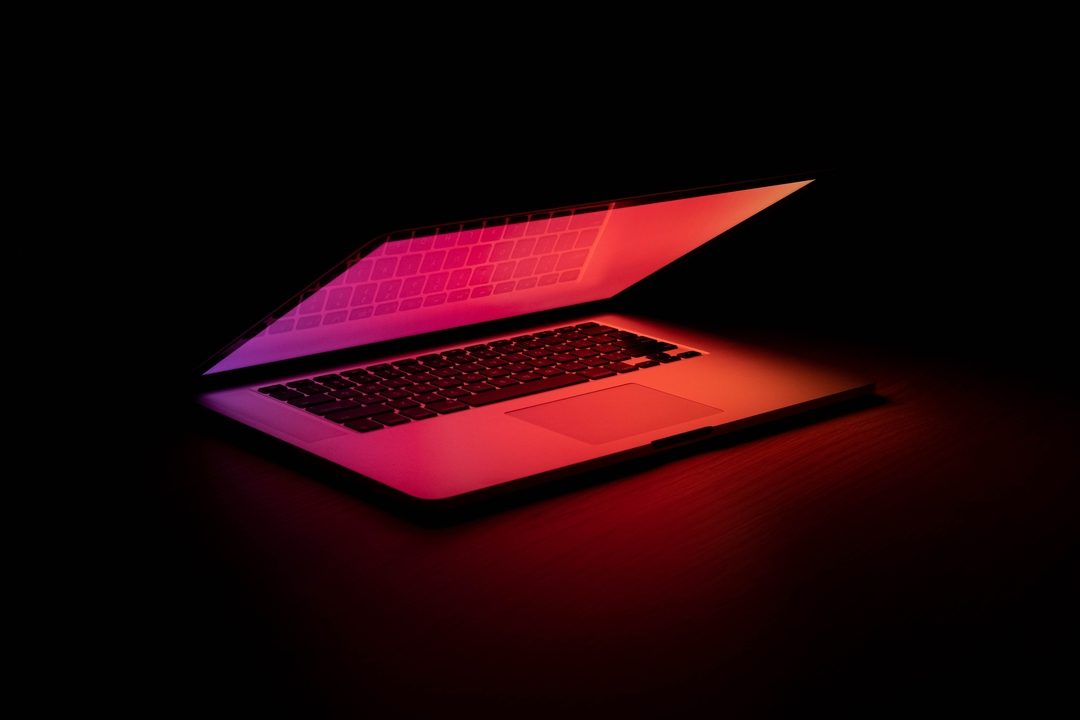
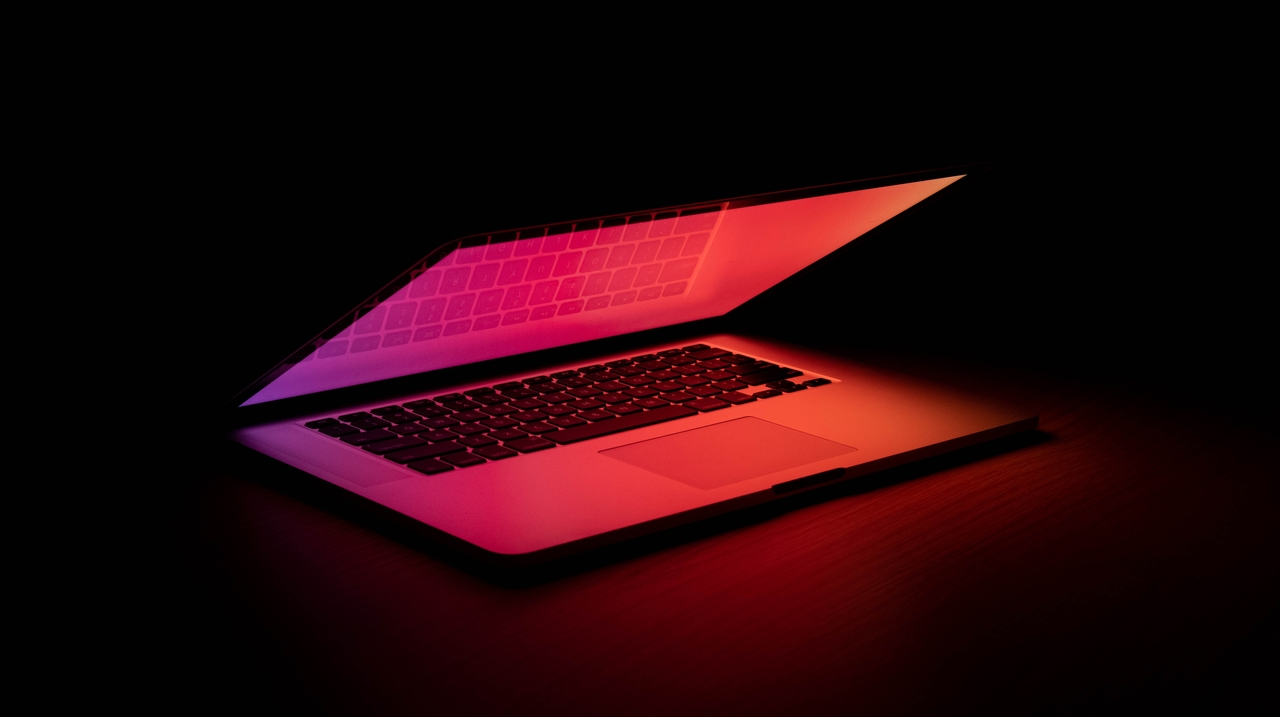
redesigned homepage and backgrounds

Changed region(s): [[0.1833, 0.2762, 0.8861, 1.0], [0.6111, 0.2455, 0.7639, 0.2762]]

diff --git a/portfoliosite/src/Componenets/Homepage.js b/portfoliosite/src/Componenets/Homepage.js
@@ -1,7 +1,7 @@
 import React from 'react';
 import { makeStyles} from '@material-ui/core/styles';
-import Grid from '@material-ui/core/Grid';
-import Box from '@material-ui/core/Box'
+import Box from '@material-ui/core/Box';
+import Grow from '@material-ui/core/Grow';
 import Typography from '@material-ui/core/Typography';
      
 const useStyle = makeStyles((theme) => ({
@@ -12,16 +12,16 @@ const useStyle = makeStyles((theme) => ({
         fontSize: 70,
         fontFamily: '-apple-system, BlinkMacSystemFont',
         fontWeight: 500,
-        paddingTop:theme.spacing(7)
+        paddingTop:theme.spacing(4)
     },
 
     footer:{
         fontSize:48,
         color:'whitesmoke',
         fontWeight:500,
-        marginBottom:theme.spacing(2),
-        marginTop:theme.spacing(45),
+        paddingTop:theme.spacing(42),
     }
+
 
 }));
 
@@ -30,15 +30,25 @@ function Homepage(){
     const classes= useStyle();
 
     return(   
-        
-            <Grid className="description" direction='coloumn' justify='space-between' alignItems='center'>
-                <Typography  variant= 'h1' className={classes.header}>Hi, <span style={{fontSize:'48px'}}>I AM RIPUDAMAN</span> </Typography>              
+        <Box className='description'>
 
-                <Typography  variant='h2' className={classes.footer}>
-                    Full-Stack Developer
-                </Typography>
+            <Grow in='true' timeout={4000} >
+                <Typography  variant= 'h1' className={classes.header}>Hi, <span style={{fontSize:'48px'}}>I AM RIPUDAMAN</span> </Typography>              
+            </Grow>
+                    
+
+            <Typography  variant='h2' className={classes.footer}>
+                Full-Stack Developer
+            </Typography>
+
+        </Box>
+            
+                    
+
+               
                 
-            </Grid>
+                
+            
 
               
             

diff --git a/portfoliosite/src/Componenets/NavBar.js b/portfoliosite/src/Componenets/NavBar.js
@@ -1,6 +1,6 @@
 import React,{useState} from 'react';
-import { makeStyles, useTheme} from '@material-ui/core/styles';
-import {NavLink, withRouter} from 'react-router-dom';
+import { makeStyles} from '@material-ui/core/styles';
+import {Link} from 'react-router-dom';
 import SwipeableDrawer from '@material-ui/core/SwipeableDrawer';
 import AppBar from '@material-ui/core/AppBar';
 import Toolbar from '@material-ui/core/Toolbar';
@@ -9,7 +9,6 @@ import Typography from '@material-ui/core/Typography';
 import Divider from '@material-ui/core/Divider';
 import IconButton from '@material-ui/core/IconButton';
 import DoubleArrowRoundedIcon from '@material-ui/icons/DoubleArrowRounded';
-import MenuOpenRoundedIcon from '@material-ui/icons/MenuOpenRounded';
 import ListItem from '@material-ui/core/ListItem';
 import ListItemIcon from '@material-ui/core/ListItemIcon';
 import ListItemText from '@material-ui/core/ListItemText';
@@ -95,7 +94,7 @@ function Navigation(){
         <Divider />
         <List>
           {Routes.map((element,key) => (
-            <ListItem button key={key}>
+            <ListItem button key={key} component={Link} to={element.path}>
               <ListItemIcon>{element.listicon}</ListItemIcon>
               <ListItemText> {element.sidebarName} </ListItemText>
             </ListItem>

diff --git a/portfoliosite/src/App.css b/portfoliosite/src/App.css
@@ -1,13 +1,15 @@
-
+.container{
+  background: url(./images/background.jpg) no-repeat center;
+  background-size: cover;
+}
 
 .description{
+  padding:10px auto;
   height:100vh;
   text-align: center;
-  background-image: url(./images/homepage.jpg);
-  background-position: 'center';
+  background: url(./images/homepage.jpg) no-repeat center center fixed;
   background-size:'cover';
-  background-repeat: 'no-repeat';
-
+ 
 }
 
 
